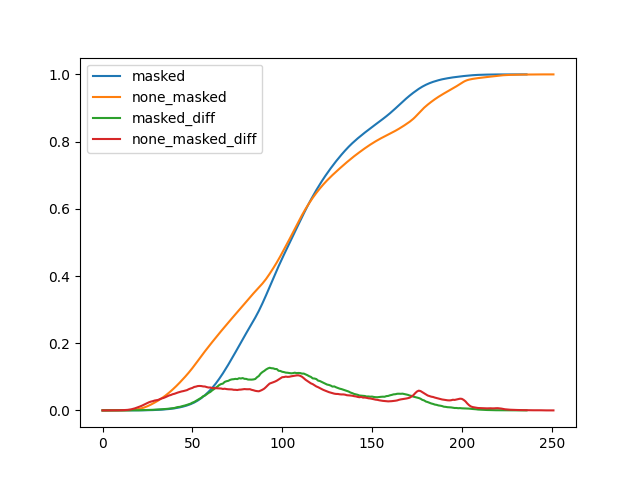
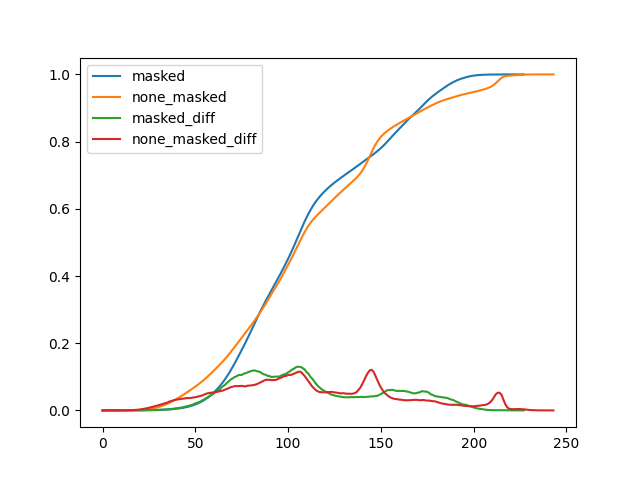
fix histogram matching

diff --git a/histogram.py b/histogram.py
@@ -15,7 +15,6 @@ def _match_cumulative_cdf(source, template, mask, channel=1):
     
     source_size = source.size - len(mask[mask==0]) * channel
     template_size = template.size - len(mask[mask!=0]) * channel
-    
     # calculate normalized quantiles for each array
     src_quantiles = np.cumsum(src_counts) / source_size
     tmpl_quantiles = np.cumsum(tmpl_counts) / template_size
@@ -75,8 +74,13 @@ def masked_histogram_matching(image, reference, mask, multichannel=False):
     
     return matched
 
-img = cv2.imread(os.path.join('save', 'Masked-Histogram Maching result', '3_2.png'))
-mask = cv2.imread(os.path.join('save', 'Masked-Histogram Maching result', '3_mask.png'), cv2.IMREAD_GRAYSCALE)
+img = cv2.imread(os.path.join('save', 'Masked-Histogram Maching result', '2_2.png'))
+mask = cv2.imread(os.path.join('save', 'Masked-Histogram Maching result', '2_mask.png'), cv2.IMREAD_GRAYSCALE)
+
+#img = cv2.imread(os.path.join('hist_data', '26-11_shadow.png'))
+#mask = cv2.imread(os.path.join('hist_data', '26-11_mask.png'), cv2.IMREAD_GRAYSCALE)
+
+# img = cv2.cvtColor(img, cv2.COLOR_BGR2HSV)
 
 if img is not None and mask is not None:
     print('img & mask True')
@@ -89,6 +93,11 @@ mask = np.expand_dims(mask, axis=2)
 masked = mask // 255 * img
 none_masked = (255-mask) // 255 * img
 
-masked = masked_histogram_matching(masked, none_masked, mask, multichannel=False)
-img = mask // 255 * masked + none_masked
-cv2.imwrite('post-processing.png', img)
+mhm = masked_histogram_matching(masked, none_masked, mask)#, multichannel=True)
+#mhm2 = masked_histogram_matching(masked, none_masked, mask)#, multichannel=True)
+#mhm[:,:,2] = mhm2[:,:,2]
+
+img = mask // 255 * mhm + none_masked
+# img = cv2.cvtColor(img, cv2.COLOR_HSV2BGR)
+
+cv2.imwrite('post-processing.png', img)#[:,:,2])
